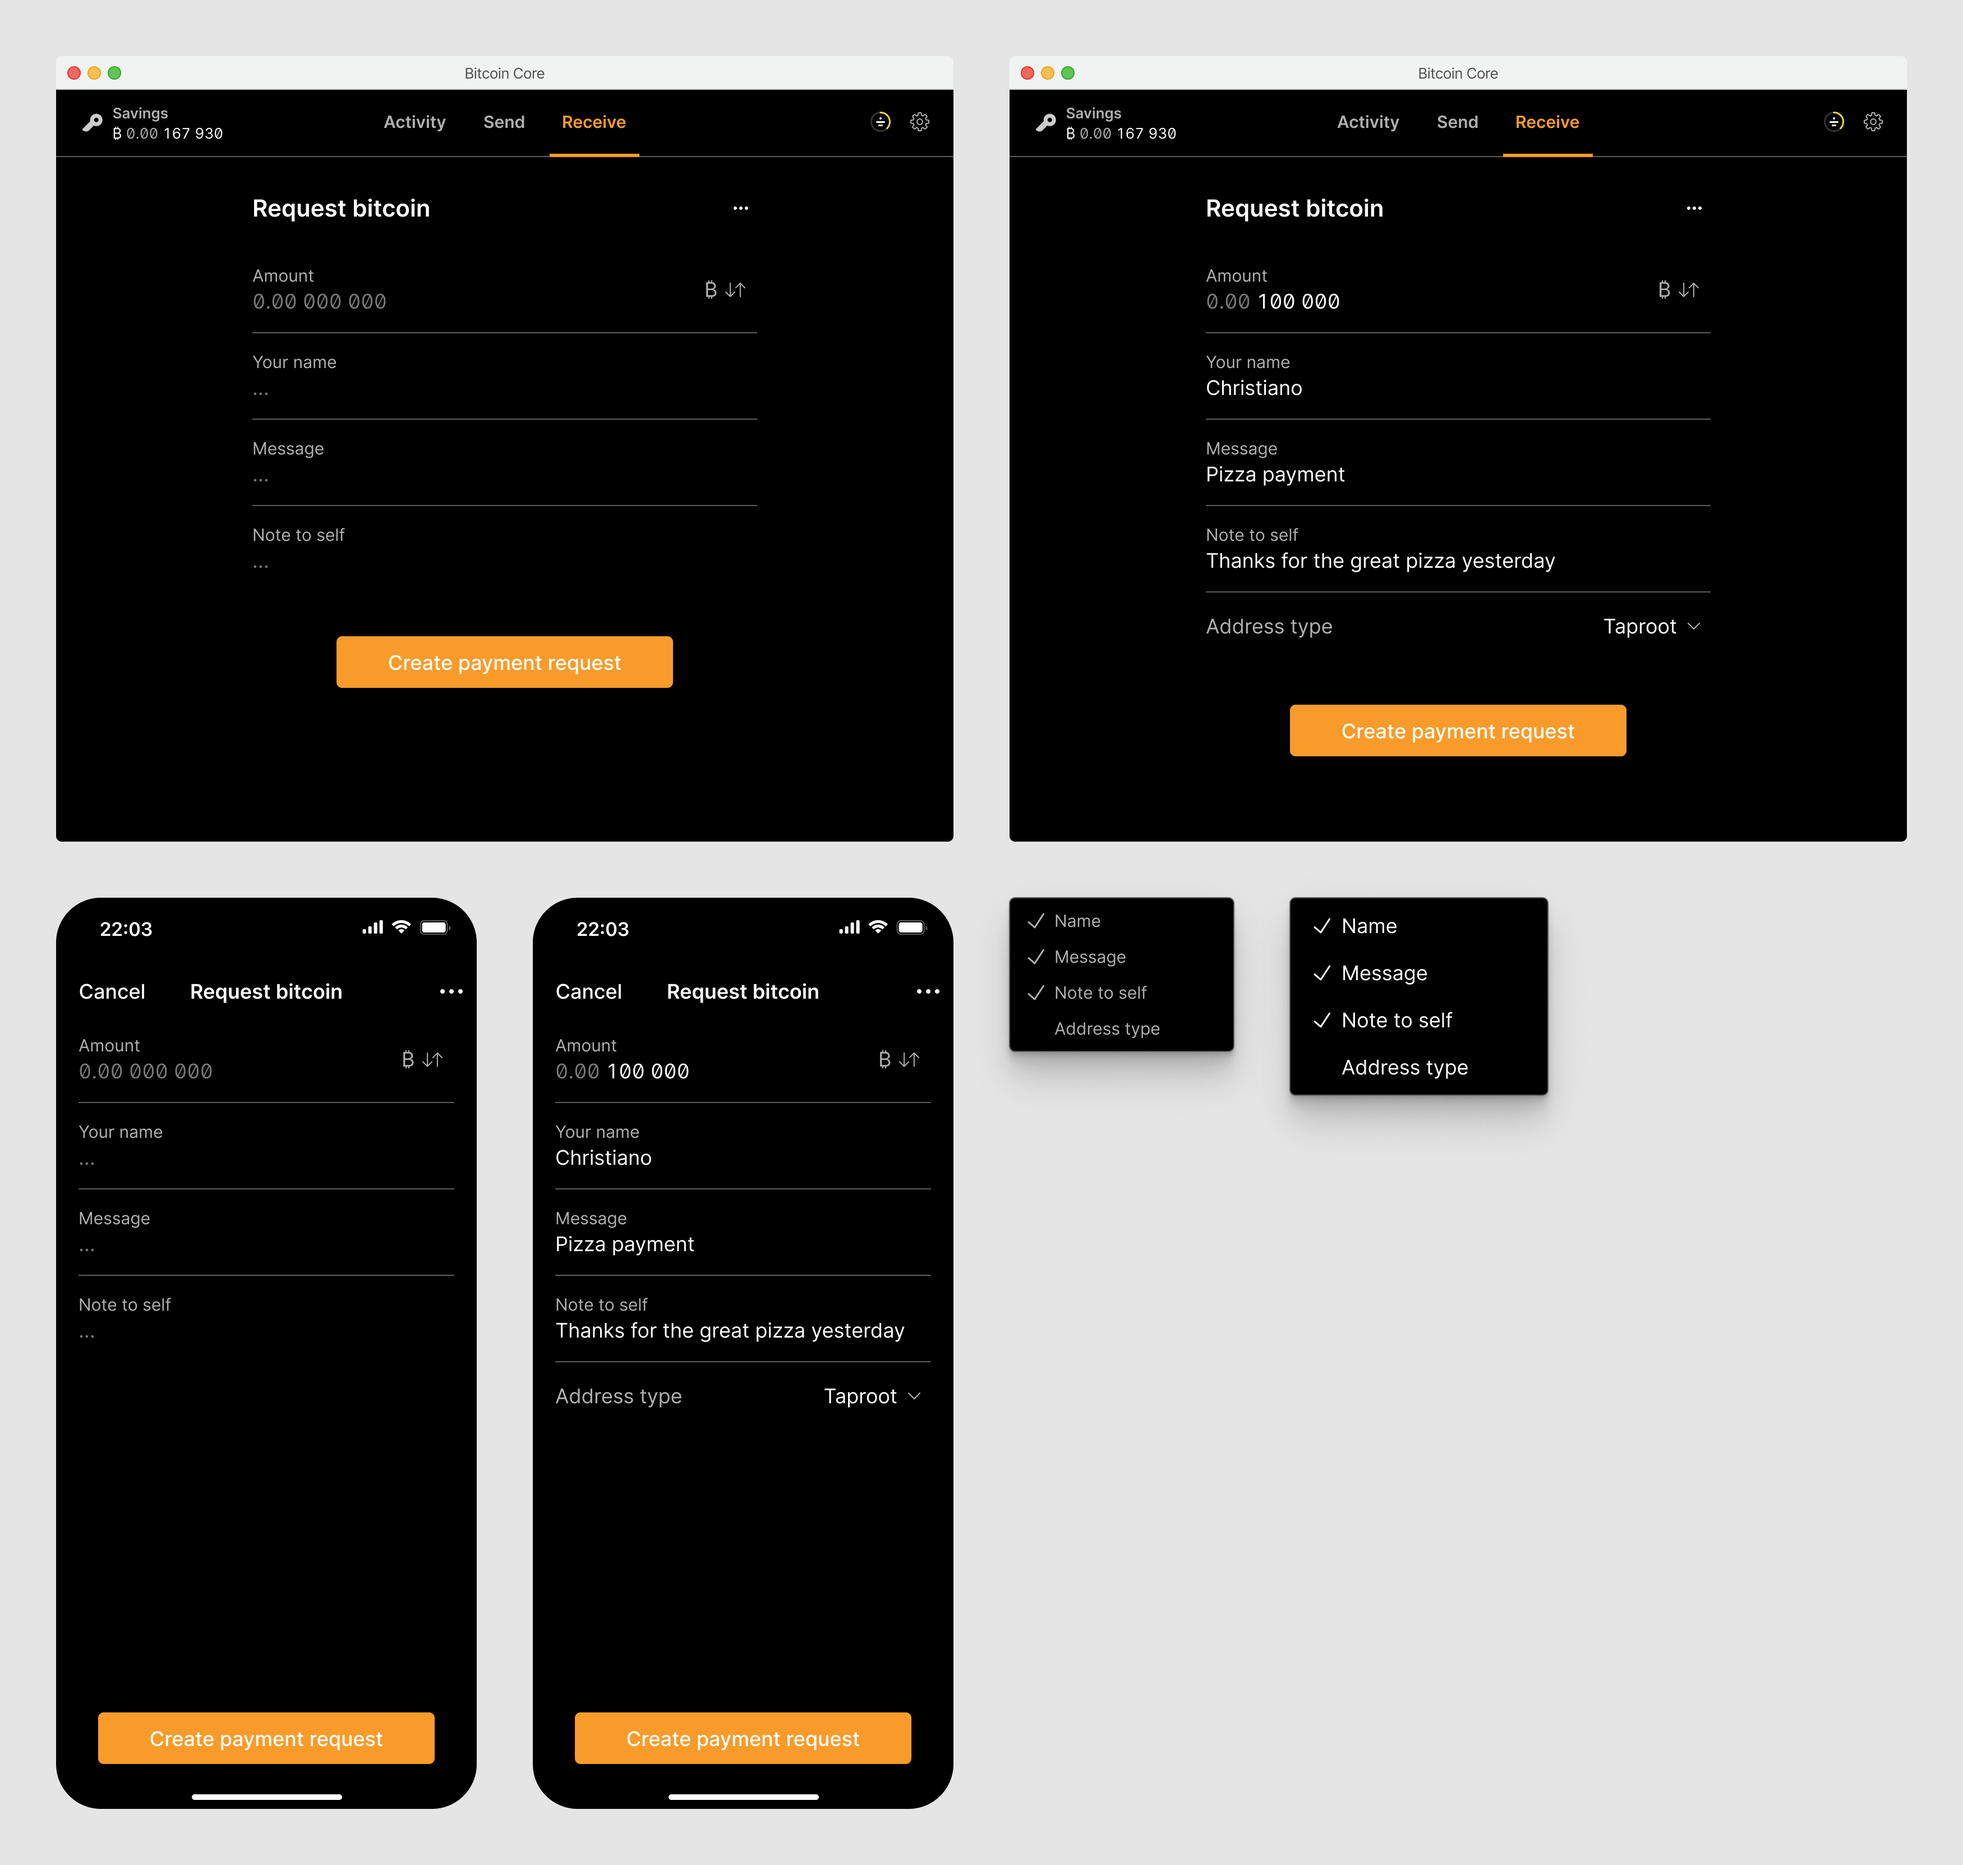
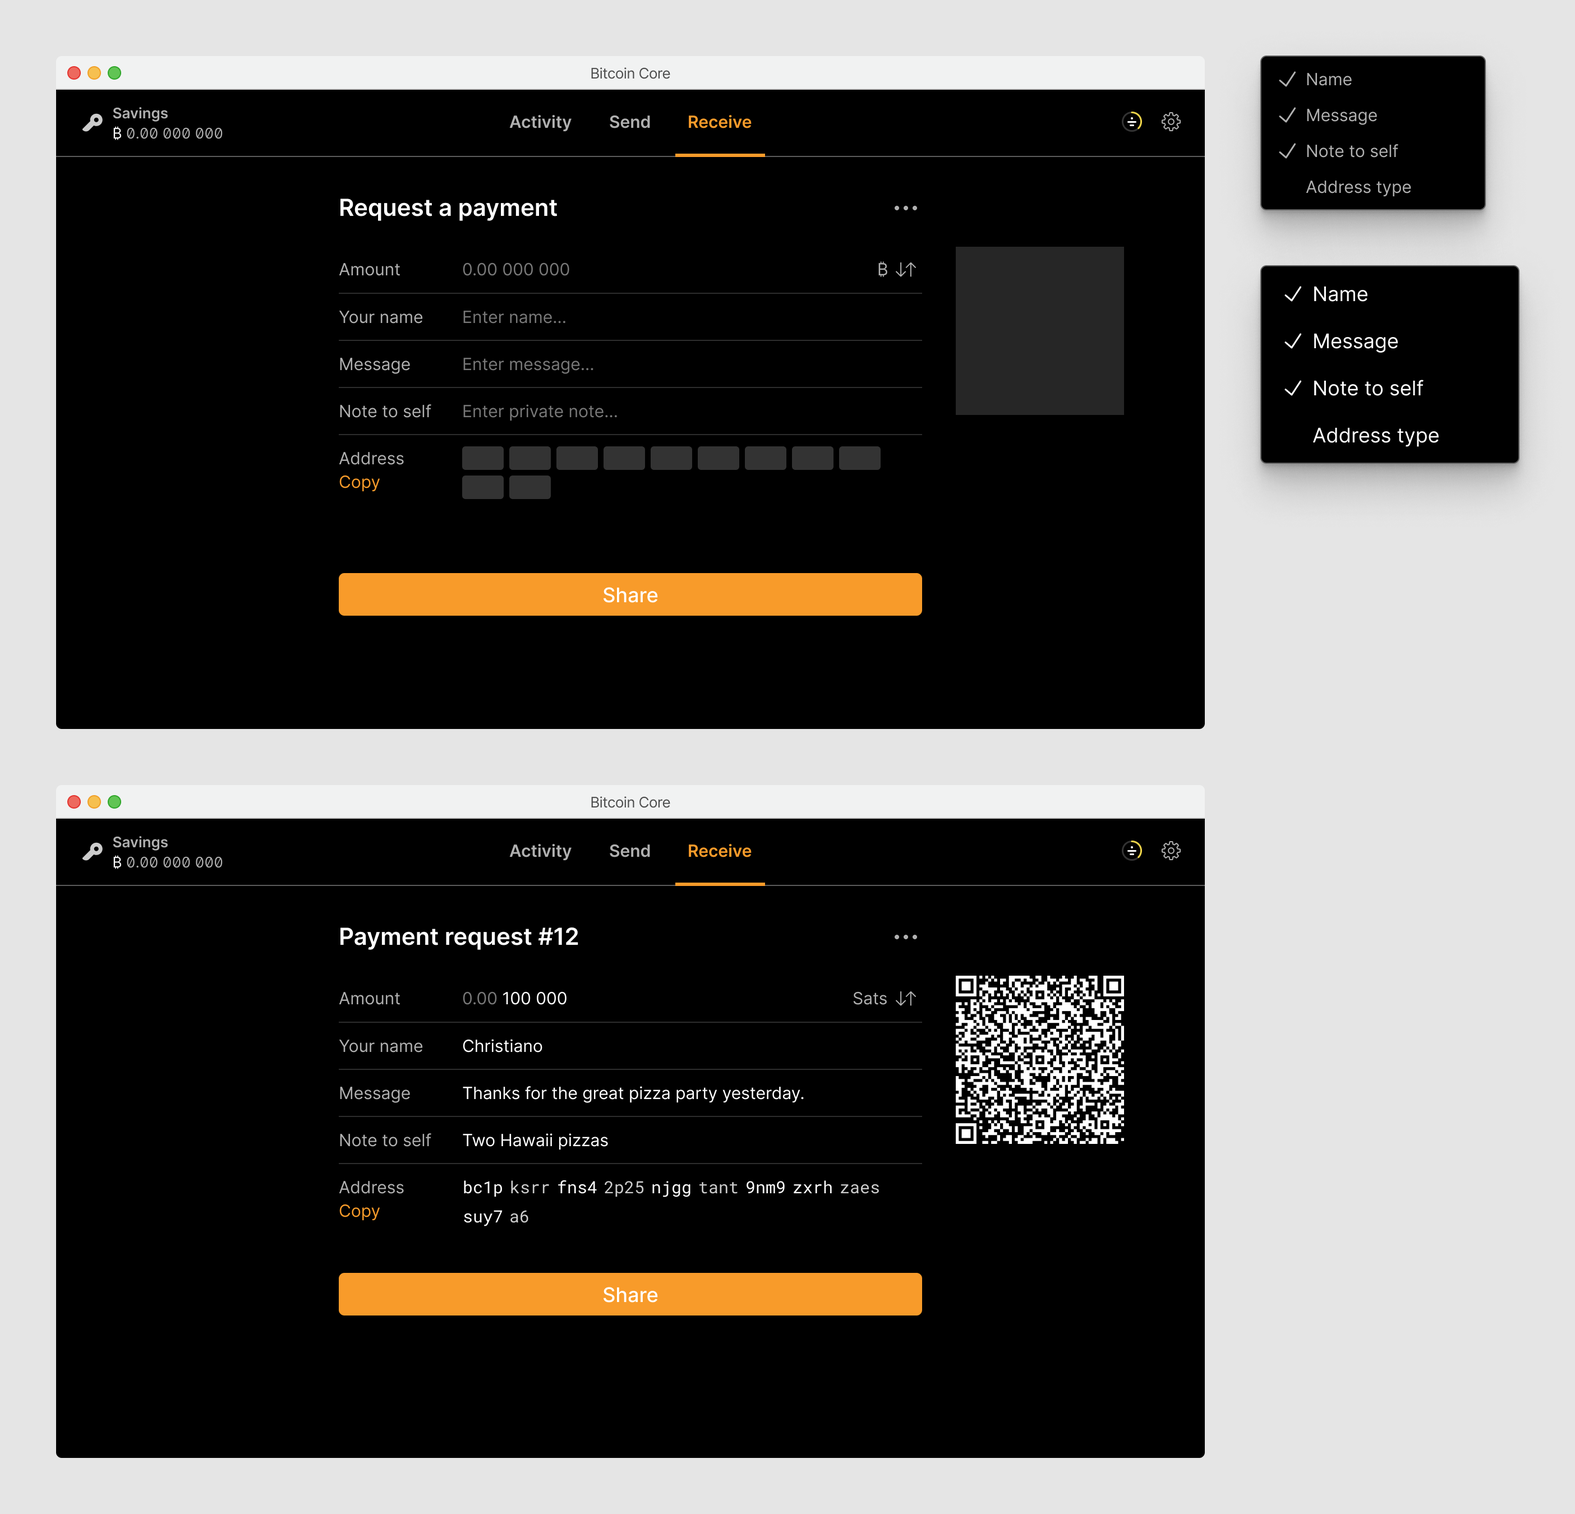
Minor visual revision of the receive screen
We recently changed the form interaction from two separate screens to a single one. This brings the design docs inline with the design files and the prototype.

diff --git a/pages/milestones/1-6-receive.md b/pages/milestones/1-6-receive.md
@@ -10,7 +10,7 @@ header: true
 
 **Status: Complete**
 
-_[Design milestone](https://github.com/BitcoinDesign/Bitcoin-Core-App/milestone/6), [Figma](https://www.figma.com/file/ek8w3n3upbluw5UL2lGhRx/Bitcoin-Core-App-Design?type=design&node-id=7516%3A13172&mode=design&t=sZSBHpOLLJmoMf57-1)_
+_[Design milestone](https://github.com/BitcoinDesign/Bitcoin-Core-App/milestone/6){:target="_blank"}, [Figma](https://www.figma.com/file/ek8w3n3upbluw5UL2lGhRx/Bitcoin-Core-App-Design?type=design&node-id=7516%3A13172&mode=design&t=sZSBHpOLLJmoMf57-1){:target="_blank"}, [Prototype](https://lively-kashata-cfde7e.netlify.app/screen/receive){:target="_blank"}_
 
 In this milestone we add features related to receiving.
 
@@ -44,6 +44,17 @@ At the center is the form to create new payment requests, which generates a new 
 	image = "/assets/images/receive/form.png"
 	retina = "/assets/images/receive/form@2x.png"
 	big = "/assets/images/receive/form-big.png"
+	alt-text = "A form to create a new payment request"
+	width = 800
+	height = 760
+%}
+
+On mobile, the layout adjusts so the QR code is shown inline. The primary buttons at the bottom are fixed to the bottom of the screen.
+
+{% include picture.html
+	image = "/assets/images/receive/form-mobile.png"
+	retina = "/assets/images/receive/form-mobile@2x.png"
+	big = "/assets/images/receive/form-mobile-big.png"
 	alt-text = "A form to create a new payment request"
 	width = 800
 	height = 760
